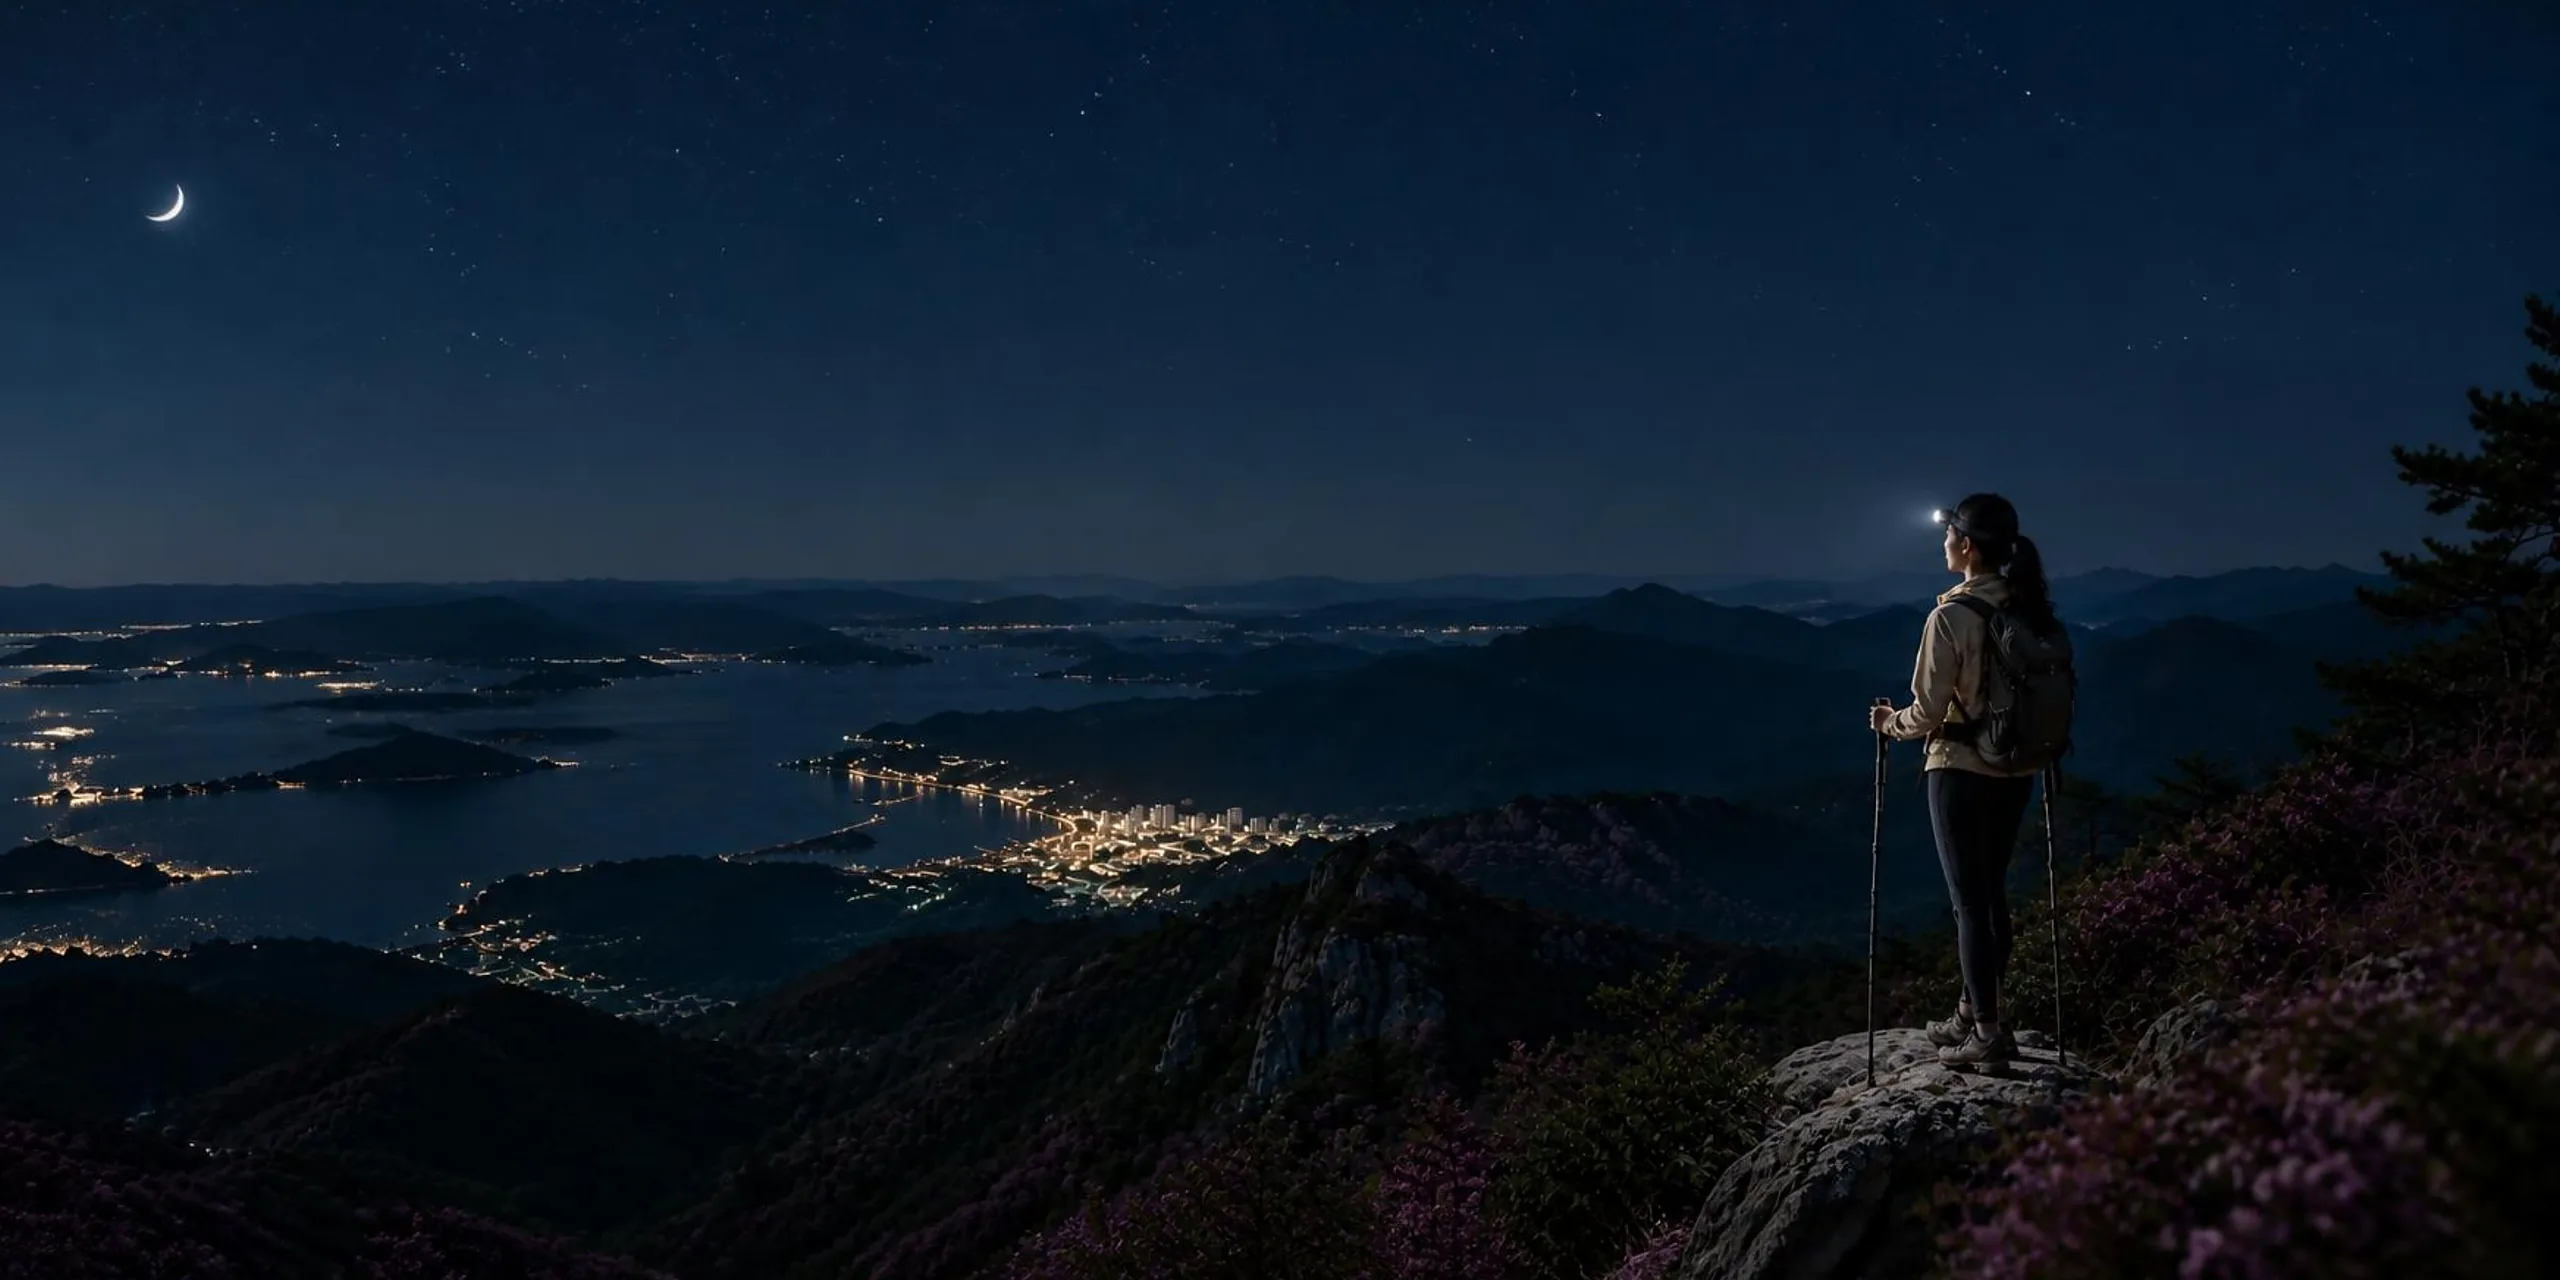
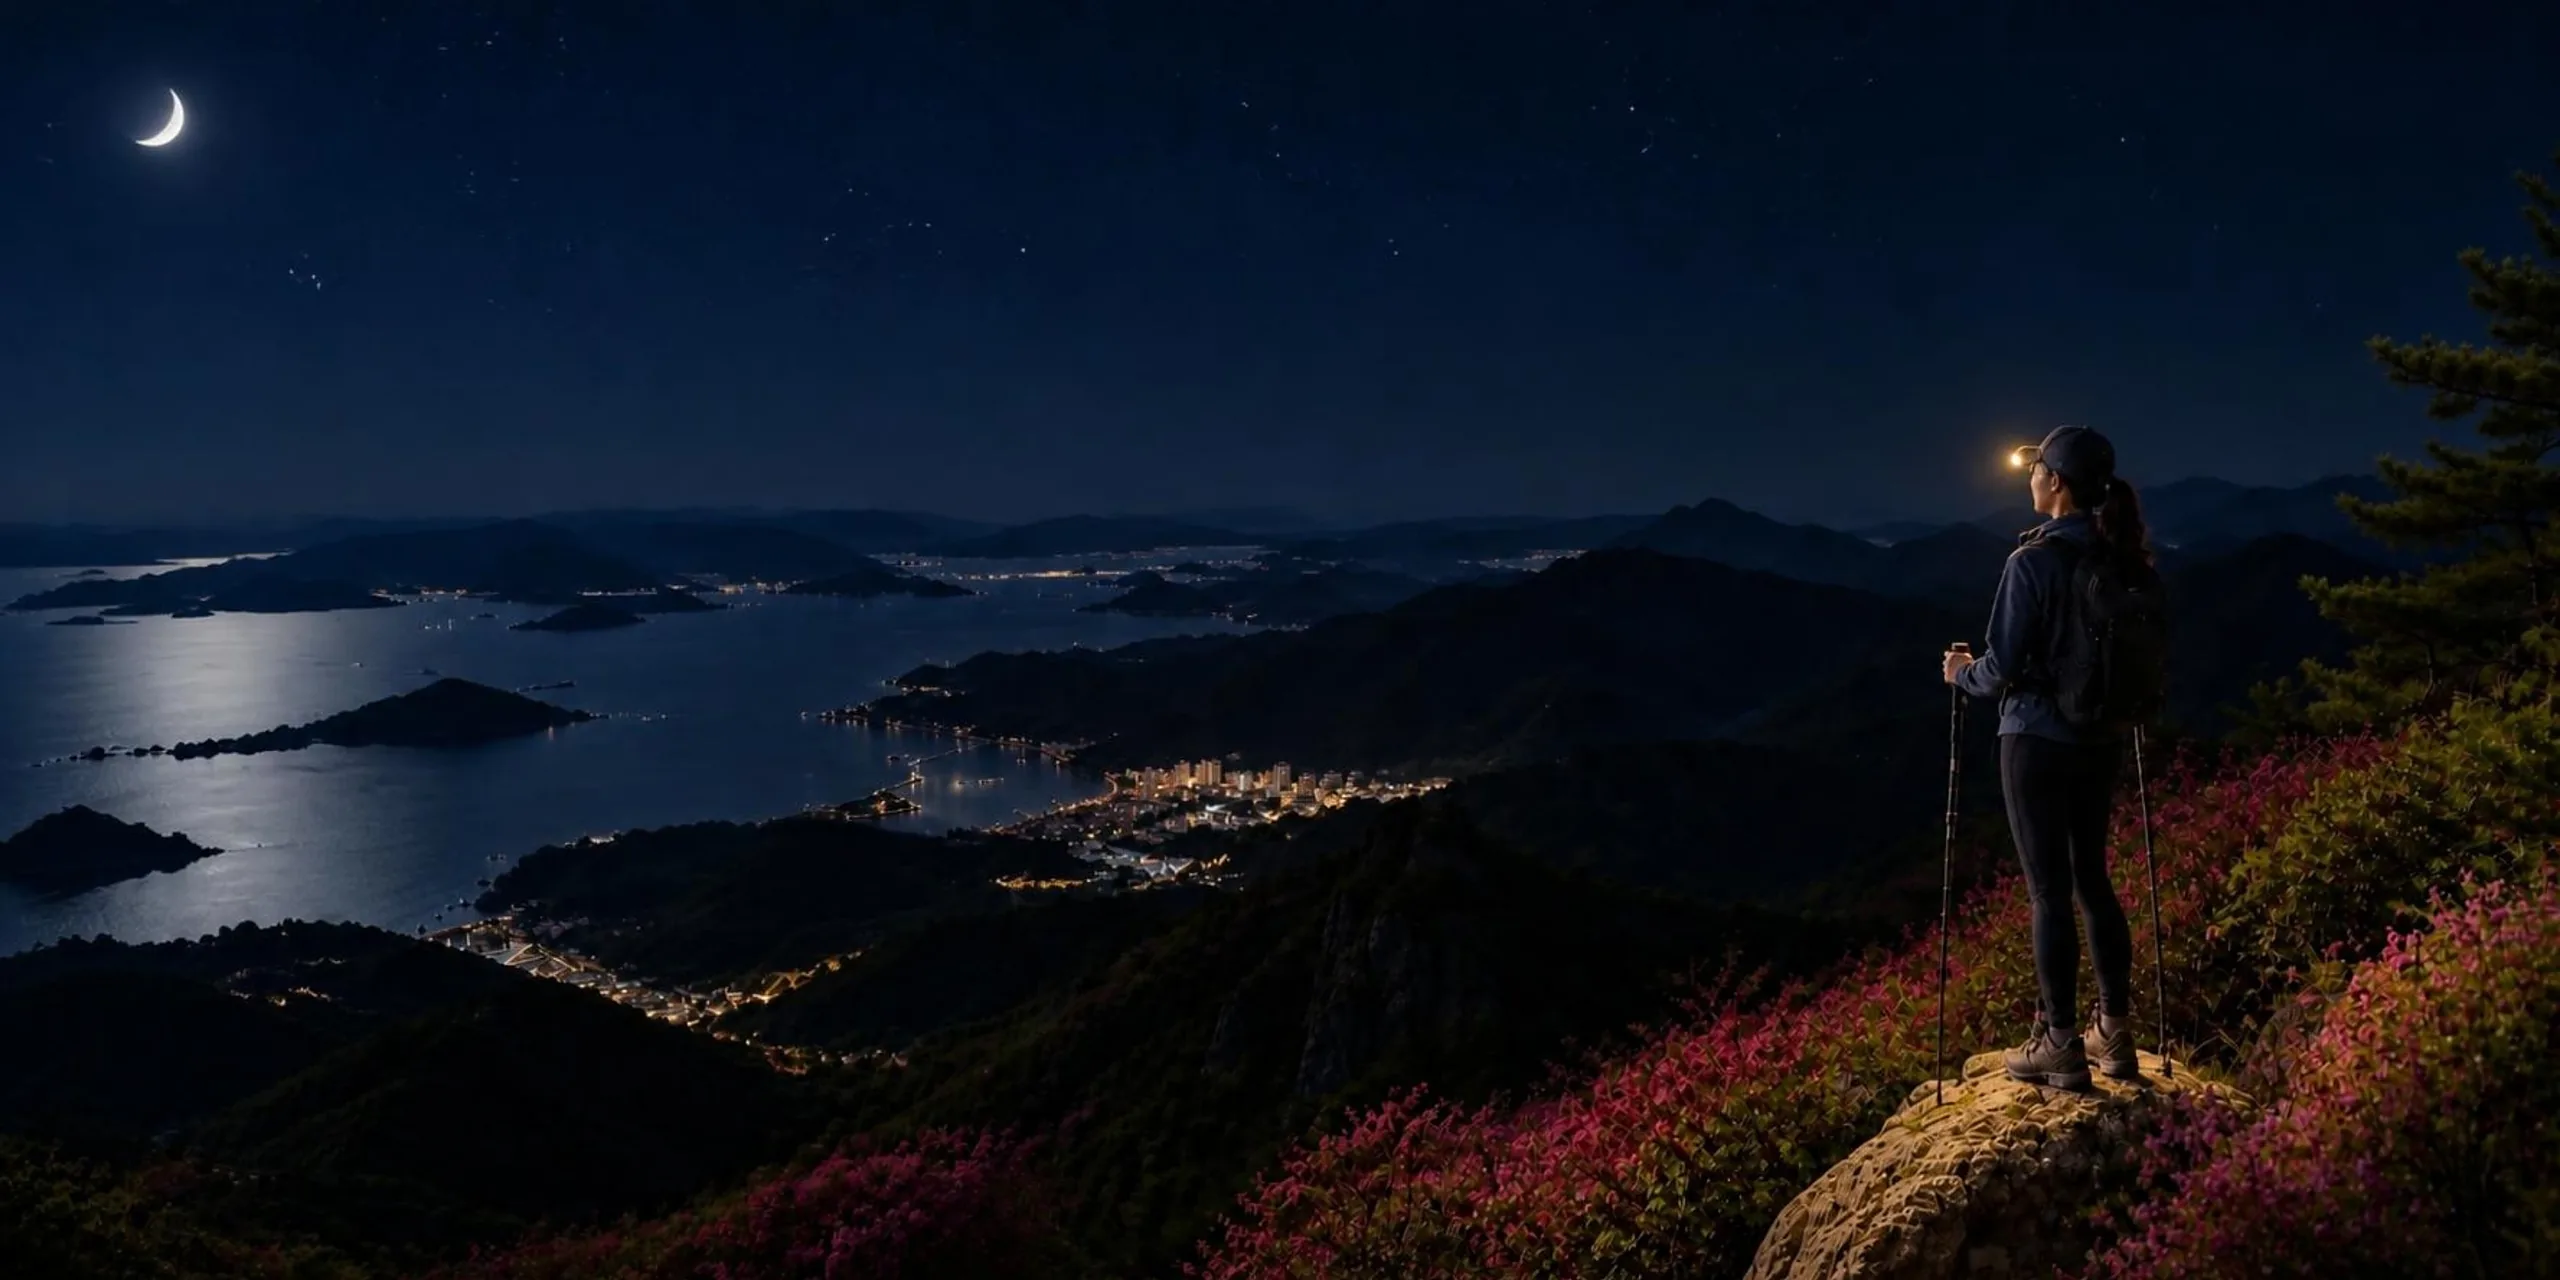
히어로 봄 심야 v7 적용 (승인 참조 기준 검수 통과)
- 승인 참조(신발 기준)로 재생성, 신발 형태 기준과 동일 확인
- 다리 2개·폴 2개, 별·초승달·헤드램프·도시 불빛, 은하수 없음
- READY에 spring-night 추가 (봄 4종 완료)

Claude-Session: https://claude.ai/code/session_01TTPn3ts8fEyWREDupZmwxM

diff --git a/_src.html b/_src.html
@@ -13,7 +13,7 @@
 (function(){var k="";try{var d=new Date(),M=d.getMonth()+1,h=d.getHours();
 var s=M>=3&&M<=5?"spring":M>=6&&M<=8?"summer":M>=9&&M<=11?"autumn":"winter";
 var t=h>=4&&h<7?"dawn":h>=7&&h<17?"day":h>=17&&h<21?"evening":"night";k=s+"-"+t;
-var READY={"spring-dawn":1,"spring-day":1,"spring-evening":1};/* 검수 통과분만 노출, 나머지는 원본 히어로 */
+var READY={"spring-dawn":1,"spring-day":1,"spring-evening":1,"spring-night":1};/* 검수 통과분만 노출, 나머지는 원본 히어로 */
 window.__heroReady=READY;if(!READY[k])k="";
 var q=/[?&]hero=((?:spring|summer|autumn|winter)-(?:dawn|day|evening|night))(?:&|$)/.exec(location.search);if(q&&READY[q[1]])k=q[1];}catch(e){k="";}
 window.__hero=k;var a=k?"/img/hero/"+k:"/img/hero",b=k?"/img/hero/"+k+"-m.webp":"/img/hero-m.webp";
@@ -333,7 +333,7 @@ footer{background:var(--dark);color:rgba(255,255,255,.5);border-top:1px solid rg
       <img class="bg" id="heroImg" width="2560" height="1280" alt="산 정상 바위에 서서 다도해와 겹겹의 산줄기를 바라보는 등산객" fetchpriority="high" />
     </picture>
     <script>(function(){var k=window.__hero,i=document.getElementById("heroImg"),s=document.getElementById("heroSrc"),w=document.getElementById("bgwrap");
-var C={"spring-dawn":["#b5a7c2","#434456"],"spring-day":["#89b1ce","#55594c"],"spring-evening":["#d7a373","#75522f"],"spring-night":["#11253b","#0e1217"],"summer-dawn":["#dcbba1","#5f5642"],"summer-day":["#75abe1","#3a5f55"],"summer-evening":["#c78665","#594429"],"summer-night":["#0f2951","#0c1826"],"autumn-dawn":["#9482ba","#5c4159"],"autumn-day":["#81b5db","#6b5e5b"],"autumn-evening":["#c69164","#693821"],"autumn-night":["#1b293a","#17151a"],"winter-dawn":["#a8acce","#475986"],"winter-day":["#afcfee","#77879c"],"winter-evening":["#8d7575","#4e3f4f"],"winter-night":["#182742","#1c273d"]};function fb(){s.srcset="/img/hero-m.webp";i.src="/img/hero.webp";w.style.backgroundImage="";}
+var C={"spring-dawn":["#b5a7c2","#434456"],"spring-day":["#89b1ce","#55594c"],"spring-evening":["#d7a373","#75522f"],"spring-night":["#08172b","#1b1515"],"summer-dawn":["#dcbba1","#5f5642"],"summer-day":["#75abe1","#3a5f55"],"summer-evening":["#c78665","#594429"],"summer-night":["#0f2951","#0c1826"],"autumn-dawn":["#9482ba","#5c4159"],"autumn-day":["#81b5db","#6b5e5b"],"autumn-evening":["#c69164","#693821"],"autumn-night":["#1b293a","#17151a"],"winter-dawn":["#a8acce","#475986"],"winter-day":["#afcfee","#77879c"],"winter-evening":["#8d7575","#4e3f4f"],"winter-night":["#182742","#1c273d"]};function fb(){s.srcset="/img/hero-m.webp";i.src="/img/hero.webp";w.style.backgroundImage="";}
 if(!k){fb();return;}i.addEventListener("error",function(){if(!i.getAttribute("data-fb")){i.setAttribute("data-fb","1");fb();}});
 if(C[k])w.style.backgroundImage="linear-gradient(180deg,"+C[k][0]+","+C[k][1]+")";
 s.srcset="/img/hero/"+k+"-m.webp";i.src="/img/hero/"+k+".webp";})();</script>

diff --git a/index.html b/index.html
@@ -13,7 +13,7 @@
 (function(){var k="";try{var d=new Date(),M=d.getMonth()+1,h=d.getHours();
 var s=M>=3&&M<=5?"spring":M>=6&&M<=8?"summer":M>=9&&M<=11?"autumn":"winter";
 var t=h>=4&&h<7?"dawn":h>=7&&h<17?"day":h>=17&&h<21?"evening":"night";k=s+"-"+t;
-var READY={"spring-dawn":1,"spring-day":1,"spring-evening":1};/* 검수 통과분만 노출, 나머지는 원본 히어로 */
+var READY={"spring-dawn":1,"spring-day":1,"spring-evening":1,"spring-night":1};/* 검수 통과분만 노출, 나머지는 원본 히어로 */
 window.__heroReady=READY;if(!READY[k])k="";
 var q=/[?&]hero=((?:spring|summer|autumn|winter)-(?:dawn|day|evening|night))(?:&|$)/.exec(location.search);if(q&&READY[q[1]])k=q[1];}catch(e){k="";}
 window.__hero=k;var a=k?"/img/hero/"+k:"/img/hero",b=k?"/img/hero/"+k+"-m.webp":"/img/hero-m.webp";
@@ -333,7 +333,7 @@ footer{background:var(--dark);color:rgba(255,255,255,.5);border-top:1px solid rg
       <img class="bg" id="heroImg" width="2560" height="1280" alt="산 정상 바위에 서서 다도해와 겹겹의 산줄기를 바라보는 등산객" fetchpriority="high" />
     </picture>
     <script>(function(){var k=window.__hero,i=document.getElementById("heroImg"),s=document.getElementById("heroSrc"),w=document.getElementById("bgwrap");
-var C={"spring-dawn":["#b5a7c2","#434456"],"spring-day":["#89b1ce","#55594c"],"spring-evening":["#d7a373","#75522f"],"spring-night":["#11253b","#0e1217"],"summer-dawn":["#dcbba1","#5f5642"],"summer-day":["#75abe1","#3a5f55"],"summer-evening":["#c78665","#594429"],"summer-night":["#0f2951","#0c1826"],"autumn-dawn":["#9482ba","#5c4159"],"autumn-day":["#81b5db","#6b5e5b"],"autumn-evening":["#c69164","#693821"],"autumn-night":["#1b293a","#17151a"],"winter-dawn":["#a8acce","#475986"],"winter-day":["#afcfee","#77879c"],"winter-evening":["#8d7575","#4e3f4f"],"winter-night":["#182742","#1c273d"]};function fb(){s.srcset="/img/hero-m.webp";i.src="/img/hero.webp";w.style.backgroundImage="";}
+var C={"spring-dawn":["#b5a7c2","#434456"],"spring-day":["#89b1ce","#55594c"],"spring-evening":["#d7a373","#75522f"],"spring-night":["#08172b","#1b1515"],"summer-dawn":["#dcbba1","#5f5642"],"summer-day":["#75abe1","#3a5f55"],"summer-evening":["#c78665","#594429"],"summer-night":["#0f2951","#0c1826"],"autumn-dawn":["#9482ba","#5c4159"],"autumn-day":["#81b5db","#6b5e5b"],"autumn-evening":["#c69164","#693821"],"autumn-night":["#1b293a","#17151a"],"winter-dawn":["#a8acce","#475986"],"winter-day":["#afcfee","#77879c"],"winter-evening":["#8d7575","#4e3f4f"],"winter-night":["#182742","#1c273d"]};function fb(){s.srcset="/img/hero-m.webp";i.src="/img/hero.webp";w.style.backgroundImage="";}
 if(!k){fb();return;}i.addEventListener("error",function(){if(!i.getAttribute("data-fb")){i.setAttribute("data-fb","1");fb();}});
 if(C[k])w.style.backgroundImage="linear-gradient(180deg,"+C[k][0]+","+C[k][1]+")";
 s.srcset="/img/hero/"+k+"-m.webp";i.src="/img/hero/"+k+".webp";})();</script>
